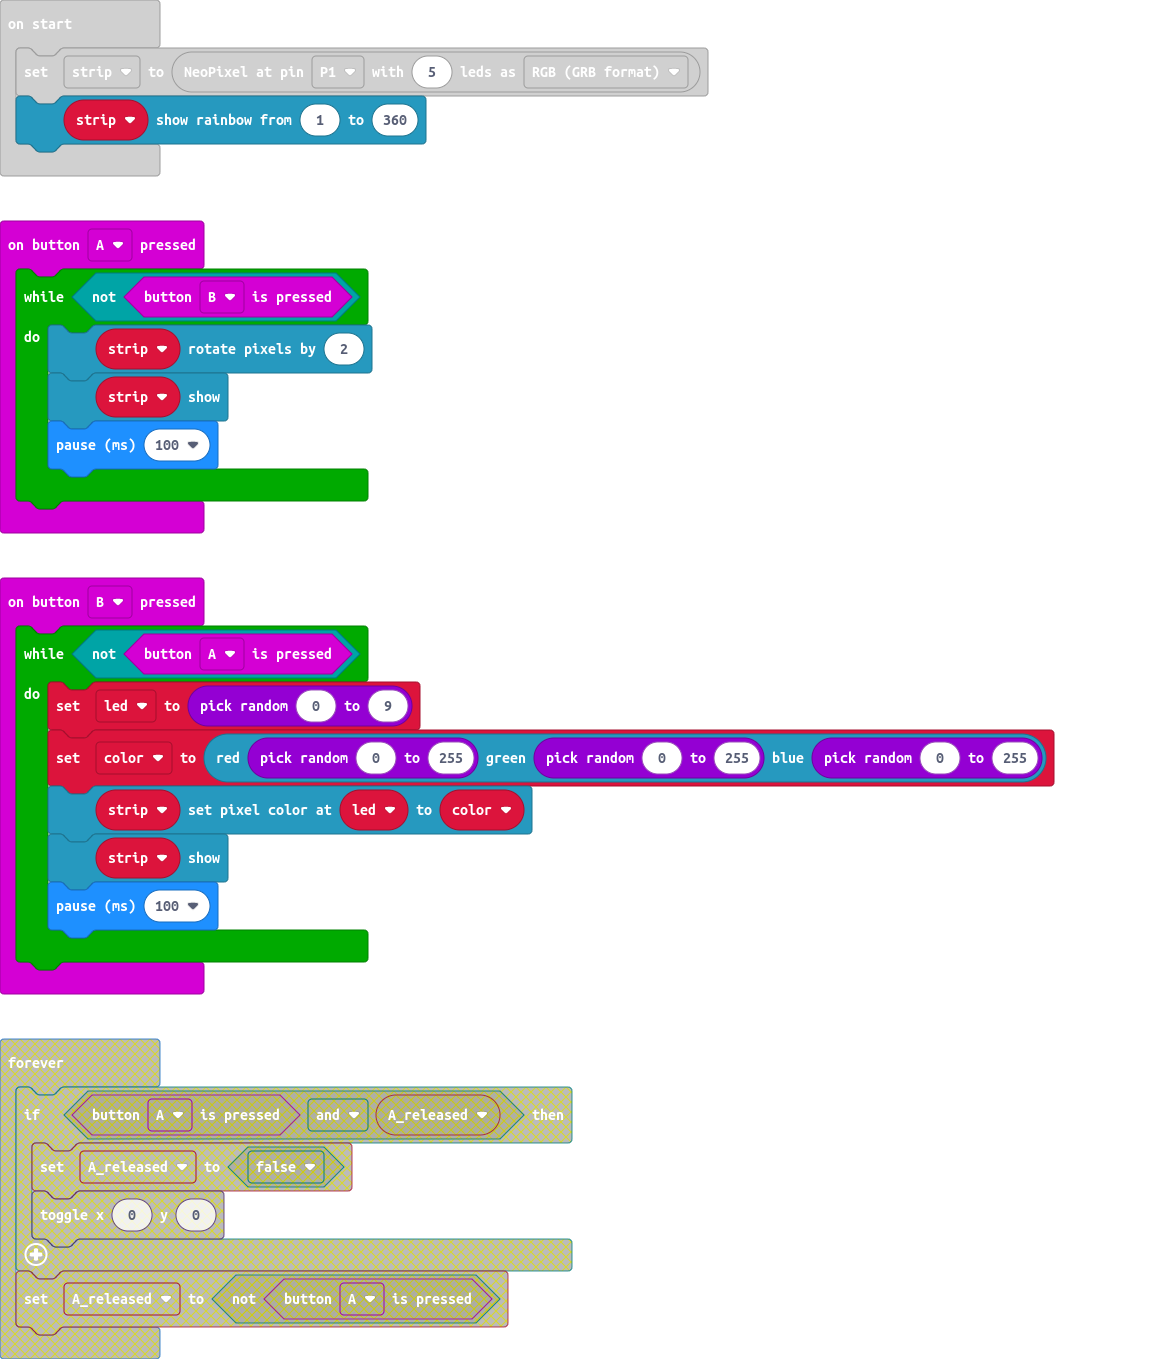
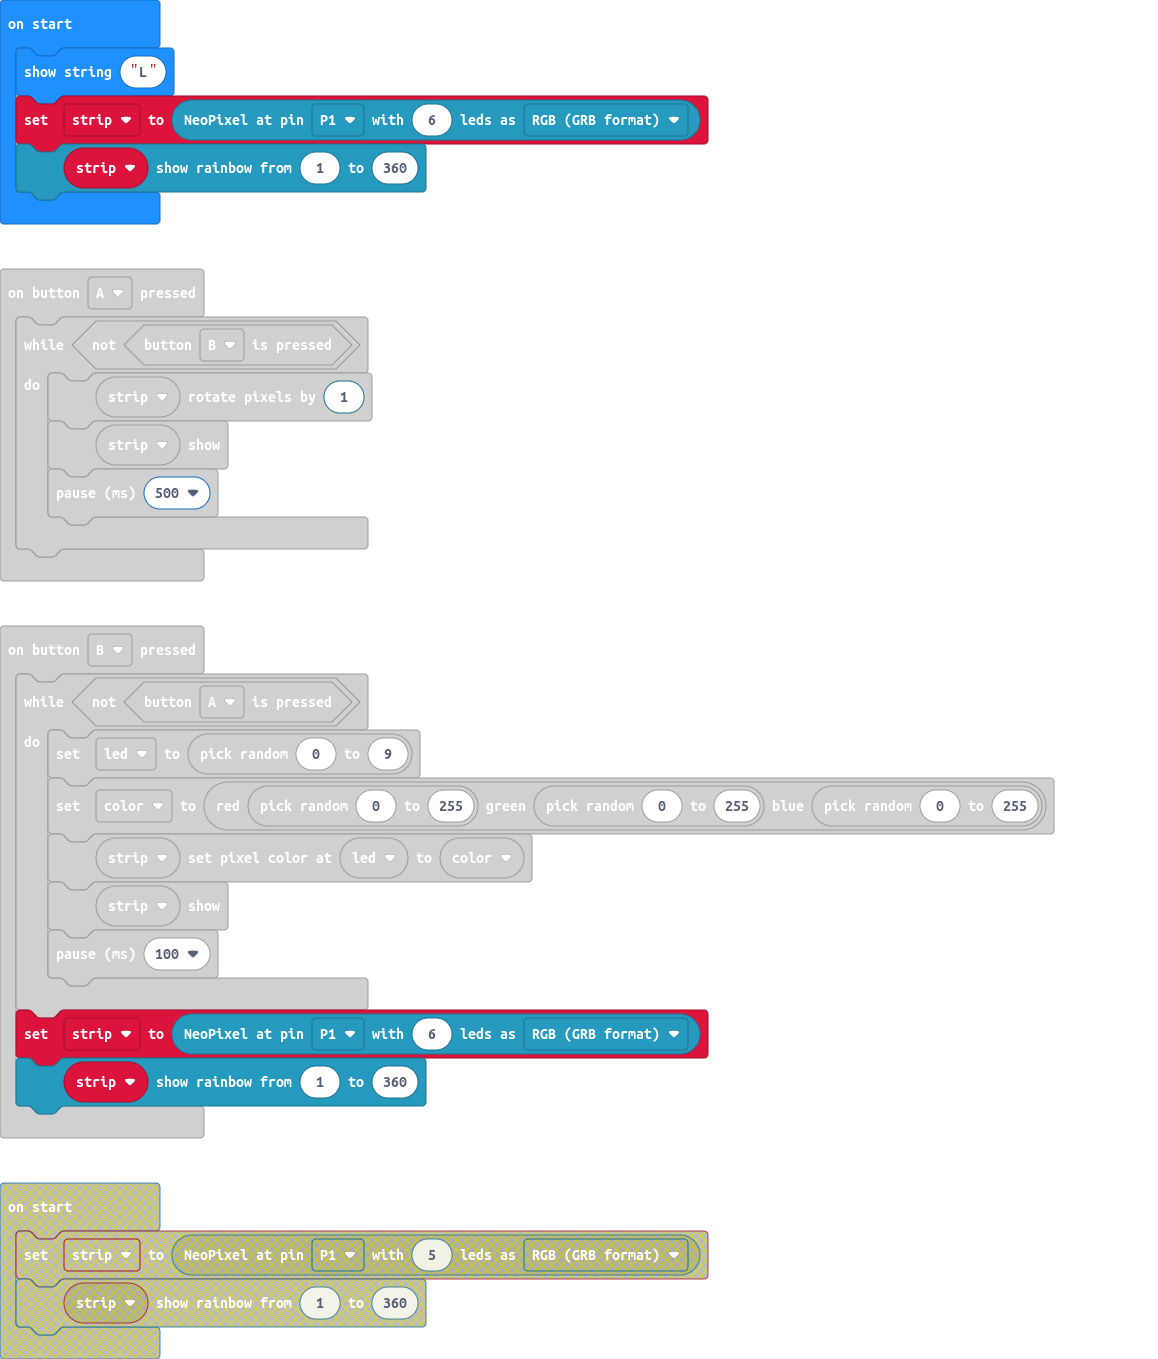
lamp L

diff --git a/main.ts b/main.ts
@@ -1,8 +1,8 @@
 input.onButtonPressed(Button.A, function () {
     while (!(input.buttonIsPressed(Button.B))) {
-        strip.rotate(2)
+        strip.rotate(1)
         strip.show()
-        basic.pause(100)
+        basic.pause(500)
     }
 })
 input.onButtonPressed(Button.B, function () {
@@ -13,9 +13,12 @@ input.onButtonPressed(Button.B, function () {
         strip.show()
         basic.pause(100)
     }
+    strip = neopixel.create(DigitalPin.P1, 6, NeoPixelMode.RGB)
+    strip.showRainbow(1, 360)
 })
 let color = 0
 let led2 = 0
 let strip: neopixel.Strip = null
-strip = neopixel.create(DigitalPin.P1, 5, NeoPixelMode.RGB)
+basic.showString("L")
+strip = neopixel.create(DigitalPin.P1, 6, NeoPixelMode.RGB)
 strip.showRainbow(1, 360)
